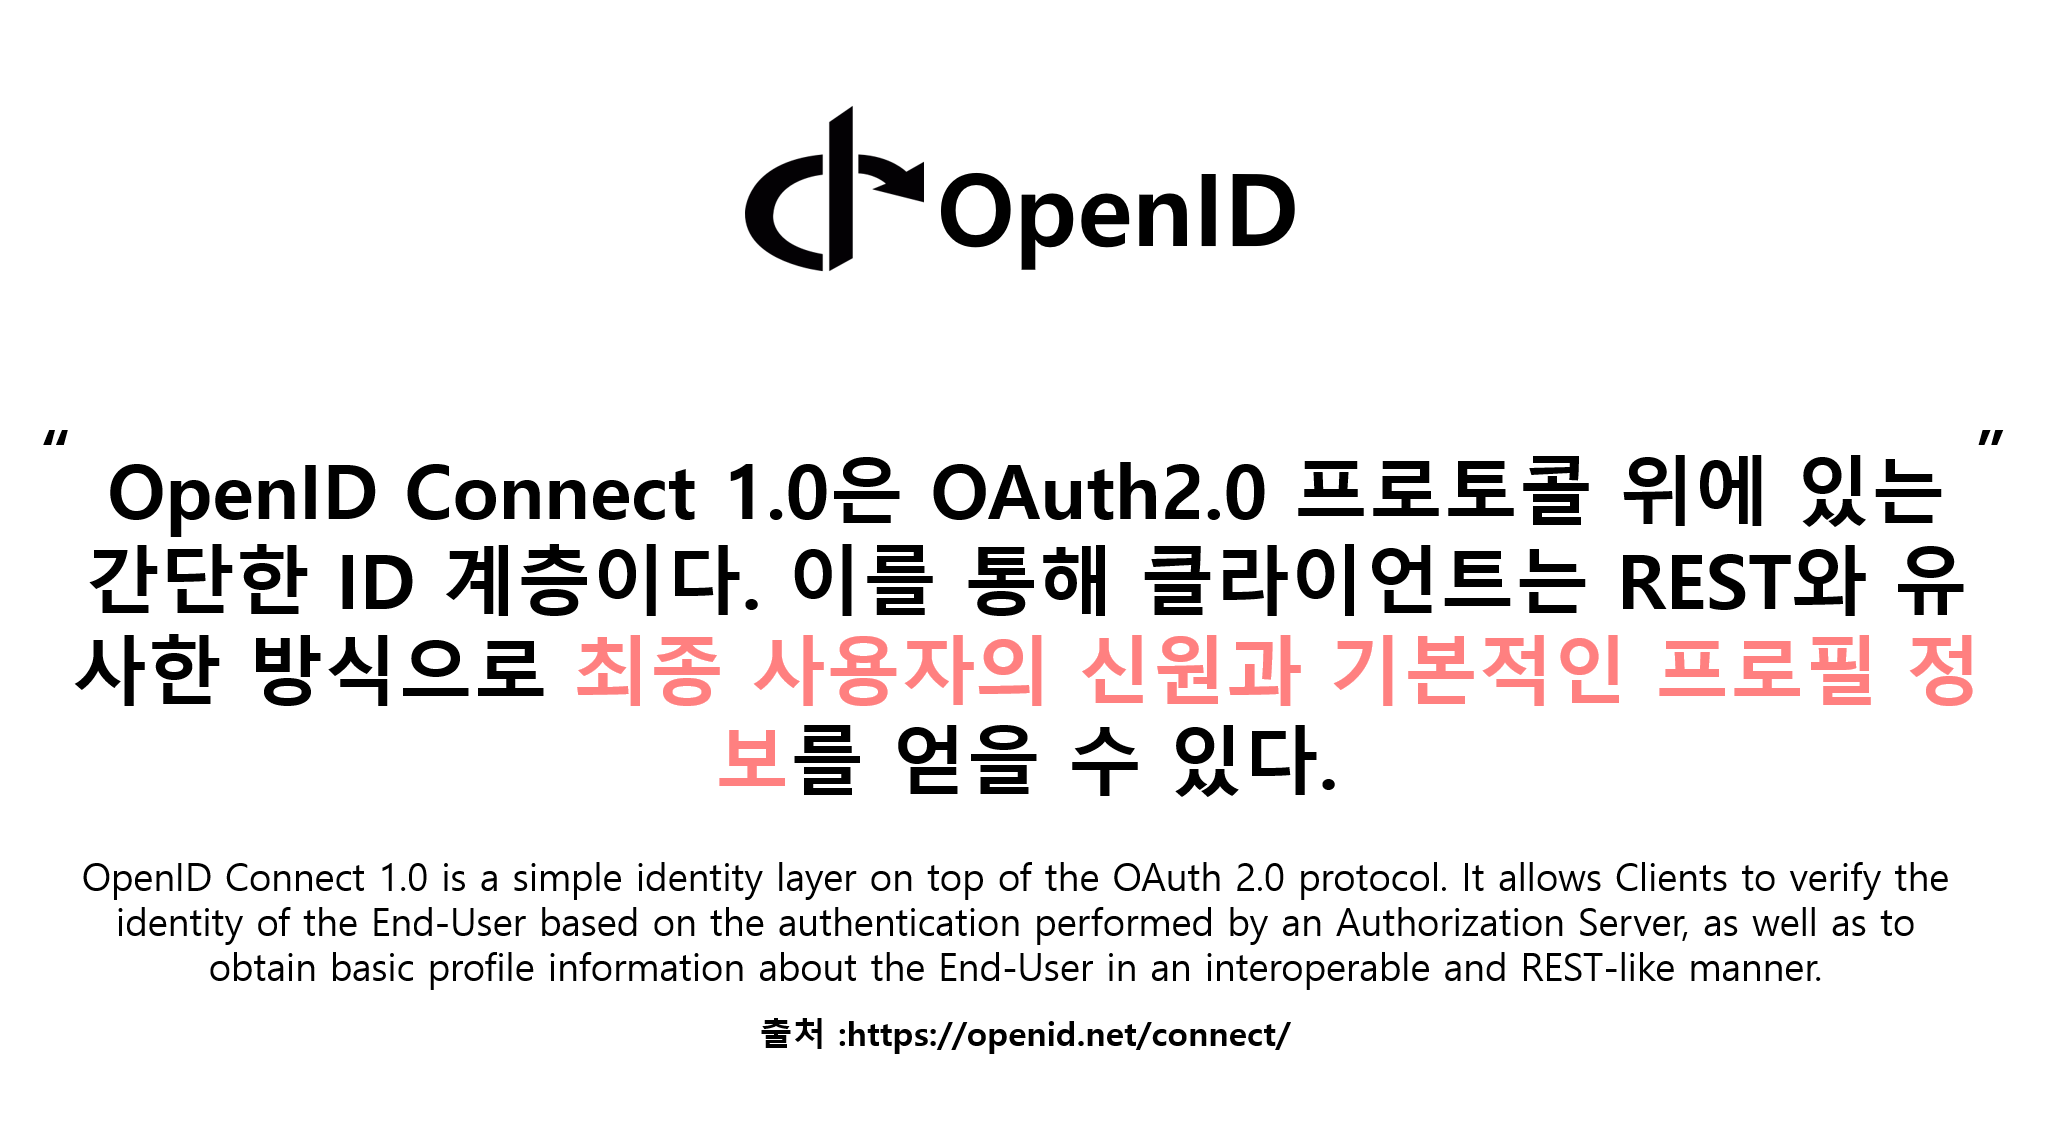
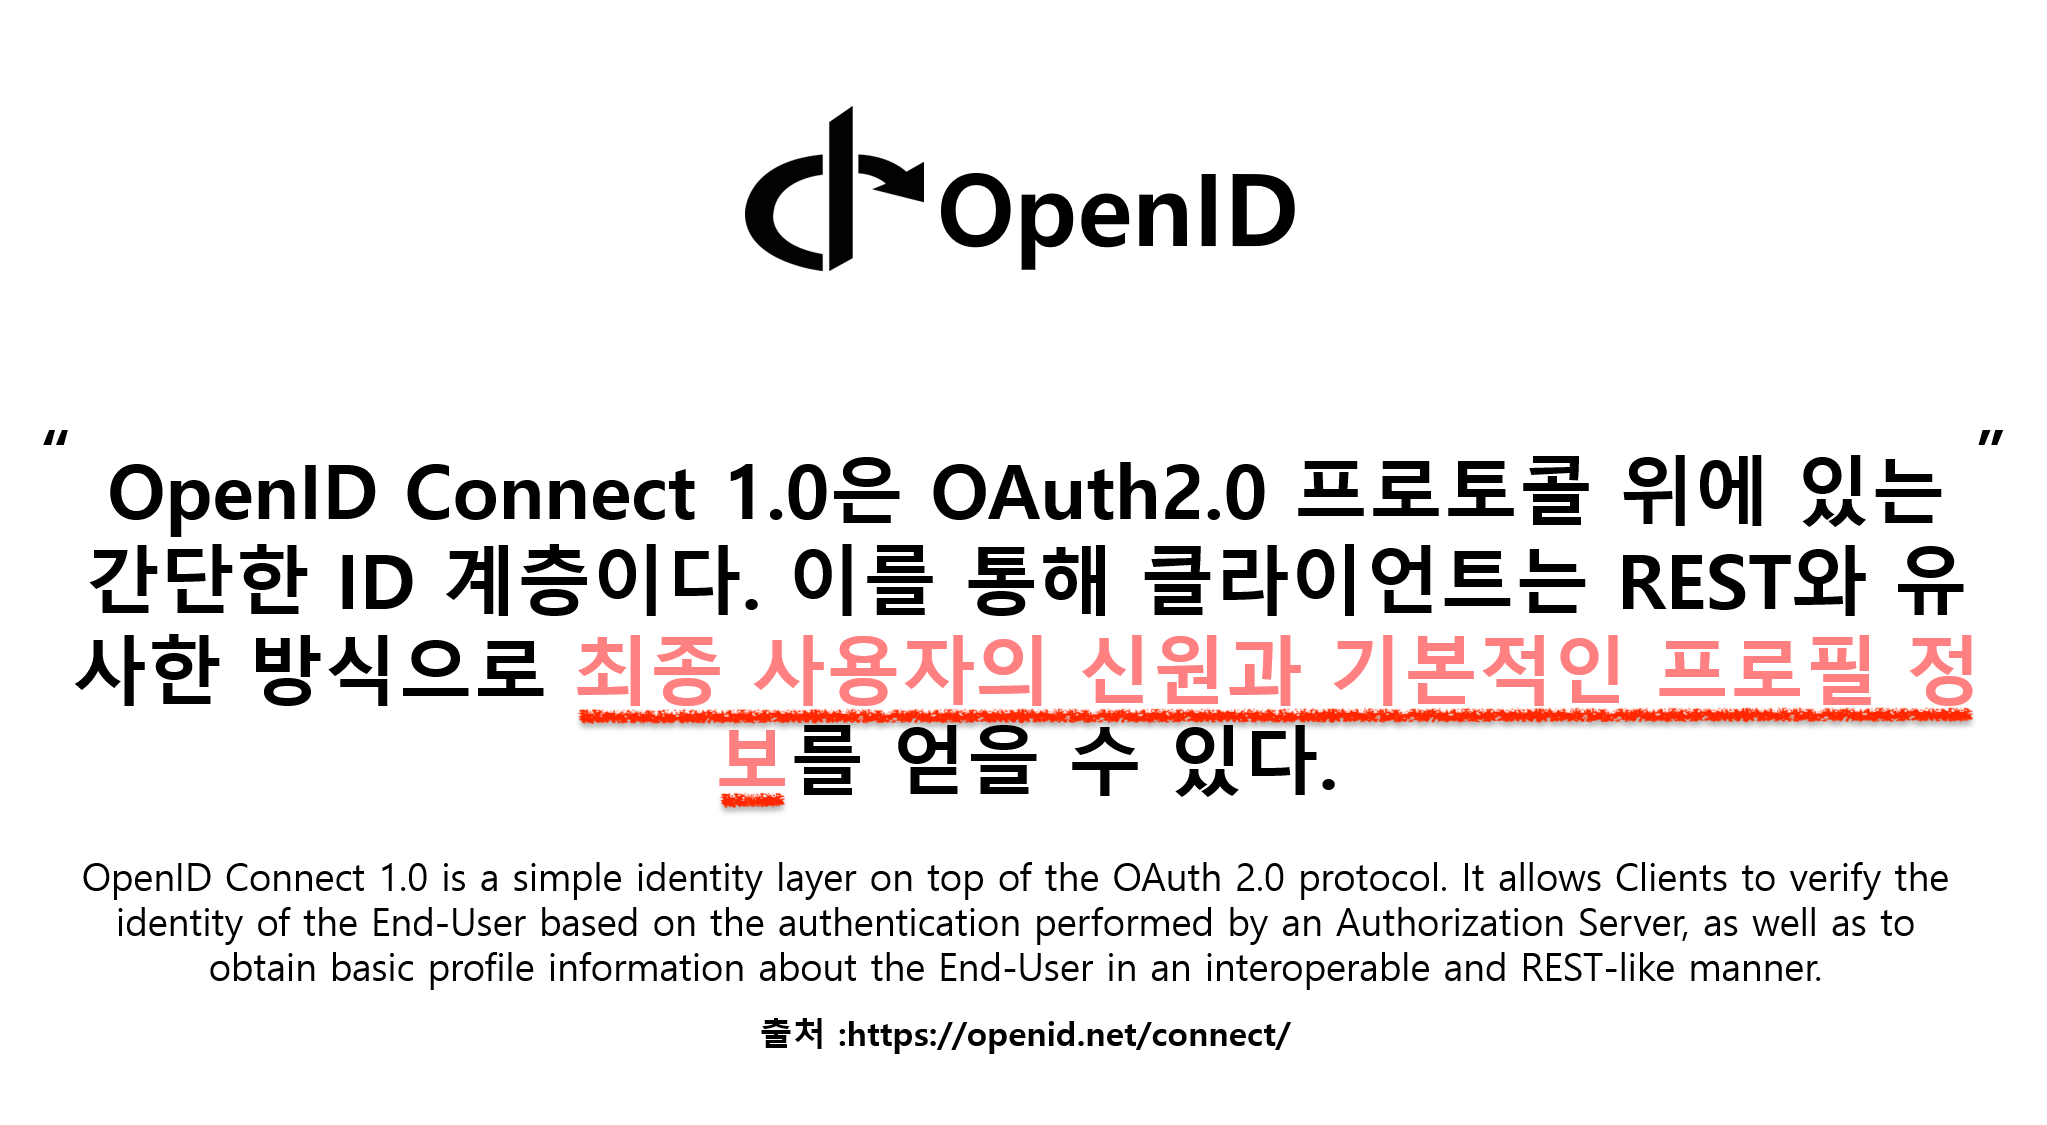
add 2023-02-08 openid post

Changed region(s): [[0.277, 0.6222, 0.9849, 0.6533], [0.3385, 0.6844, 0.4001, 0.7467]]

diff --git a/_posts/development/server/2023-02-08-openid.md b/_posts/development/server/2023-02-08-openid.md
@@ -37,13 +37,62 @@ image:
 
 ### OpenID의 장점
 ![explan_openid](/assets/img/development/server/2023-02-08/explan_openid.png){:.centered width="90%"}
-> “**OpenID**를 사용하면 <span style="color:#ff8080">**`새 비밀번호를 만들 필요 없이`**</span>” 기존 계정을 사용하여 여러 웹사이트에 **로그인**할 수 있다.
+> “**OpenID**를 사용하면 <span style="color:#ff8080">**`새 비밀번호를 만들 필요 없이`**</span>” 기존 계정을 사용하여 여러 웹사이트에 **로그인**할 수 있다.”
 
 ### OpenID의 2가지 버전
 ![openid_2version](/assets/img/development/server/2023-02-08/openid_2version.png){:.centered width="90%"}
 - OpenID도 크게 **두 가지** 주체로 나눌 수 있다
 - **IdP** : 구글, 카카오와 같이 OpenID 서비스를 **제공**하는 **당사자**
 - **RP** : 사용자를 **인증**하기 위해 IdP에 <span style="color:#ff8080">**`의존`**</span>하는 주체
+
+### OpenID 버전
+![openid_version](/assets/img/development/server/2023-02-08/openid_version.png){:.centered width="90%"}
+> “해당 포스트에서는 <span style="color:#ff8080">**`3세대`**</span> **OpenID Connect(OIDC)를 포스팅**”
+
+### OpenID Connect 정의
+![explan_openid2](/assets/img/development/server/2023-02-08/explan_openid2.png){:.centered width="90%"}
+> “**OpenID Connect 1.0**은 OAuth2.0 프로토콜 위에 있는 **간단한 ID 계층**. 이를 통해 클라이언트는 **REST**와 유사한 방식으로 <span style="color:#ff8080">**`최종 사용자의 신원과 기본적인 프로필 정보`**</span>를 얻을 수 있다”
+
+### OIDC와 OAuth2.0
+![openid_hierarchy](/assets/img/development/server/2023-02-08/openid_hierarchy.png){:.centered width="90%"}
+
+### OIDC와 OAuth2.0의 목적 차이
+![oauth_vs_openid](/assets/img/development/server/2023-02-08/oauth_vs_openid.png){:.centered width="90%"}
+> “**OAuth2.0과 OpenID Connect**의 <span style="color:#ff8080">**`목적 차이`**</span>”
+
+- **OAuth2.0 목적** : **Access Token**을 발급받고 <span style="color:#ff8080">**`리소스에 접근`**</span>하기 위해 발급
+- **OpenID Connect 목적** : ID Token을 발급받고 ID Token으로부터 <span style="color:#ff8080">**`사용자 식별 정보`**</span>를 얻기 위해 사용된다 
+
+### ID Token
+![id_token](/assets/img/development/server/2023-02-08/id_token.png){:.centered width="90%"}
+> “**사용자 식별정보**를 담고 있는 <span style="color:#ff8080">**`JWT토큰`**</span>”
+
+![id_token_payload](/assets/img/development/server/2023-02-08/id_token_payload.png){:.centered width="90%"}
+
+### ID Token의 발급 방법
+![how_to_issue_id_token](/assets/img/development/server/2023-02-08/how_to_issue_id_token.png){:.centered width="90%"}
+> “**Client**가 **Authorization Server**로 **OAuth2.0** [**인증을 요청 할 때**](2023-01-26-oauth.md#oauth의-동작과정) <span style="color:#ff8080">**`Scope에 OpenID를 추가`**</span>하면, <span style="color:#ff8080">**`ID Token`**</span>을 받을 수 있다”
+
+### OAuth2.0의 단독 유저 식별의 문제점
+![openid_question2](/assets/img/development/server/2023-02-08/openid_question2.png){:.centered width="90%"}
+> “**OAuth2.0**은 **사용자에 대한 정보**를 <span style="color:#ff8080">**`명시적으로 제공하지 않는다`**</span>”
+
+![different_oauth_openid](/assets/img/development/server/2023-02-08/different_oauth_openid.png){:.centered width="90%"}
+- **OAuth2.0**을 통해서 **발급받은 Access Token**으로는 **서버의 리소스**는 접근 권한이 <span style="color:#ff8080">**`가능`**</span>하지만, 발급받은 **Access Token**만으로는 **사용자 정보 프로필**은 <span style="color:#ff8080">**`획득 불가`**</span>
+- **OpenID Connect**를 통해서 **발급받은 ID Token**으로는 **서버의 리소스**는 접근 권한이 <span style="color:#ff8080">**`불가능`**</span>하지만, 발급받은 **ID Token**만으로는 **사용자 정보 프로필**은 <span style="color:#ff8080">**`획득 가능`**</span>
+
+### 유저 프로필 가져올 때
+![use_oauth](/assets/img/development/server/2023-02-08/use_oauth.png){:.centered width="90%"}
+> “**OAuth2.0**만을 사용했을 땐, <span style="color:#ff8080">**`통신이 두 번 발생`**</span>”
+
+1. **Access Token**을 <span style="color:#ff8080">**`요청`**</span>할 때
+2. **Access Token**을 가지고 **유저 프로필 정보**를 <span style="color:#ff8080">**`요청`**</span>할 때
+
+![use_openid](/assets/img/development/server/2023-02-08/use_openid.png){:.centered width="90%"}
+> “반면, **OpenID Connect**를 사용하면 <span style="color:#ff8080">**`한 번의 통신`**</span>으로도 **유저 프로필 정보**를 <span style="color:#ff8080">**`획득`**</span>”
+
+1. **Access Token**과 **ID Token**을 <span style="color:#ff8080">**`한 번에 요청`**</span>하고 **한 번에** 전달받게 된다
+2. 이어서 후속적인 조치 없이 **Client**는 방금 전달받은 **ID Token**을 **디코드** 하여 <span style="color:#ff8080">**`유저 프로필 정보를 획득`**</span>
 
 Back to [[Security] OAuth](2023-01-26-oauth.md){:.heading.flip-title}
 {:.read-more}
